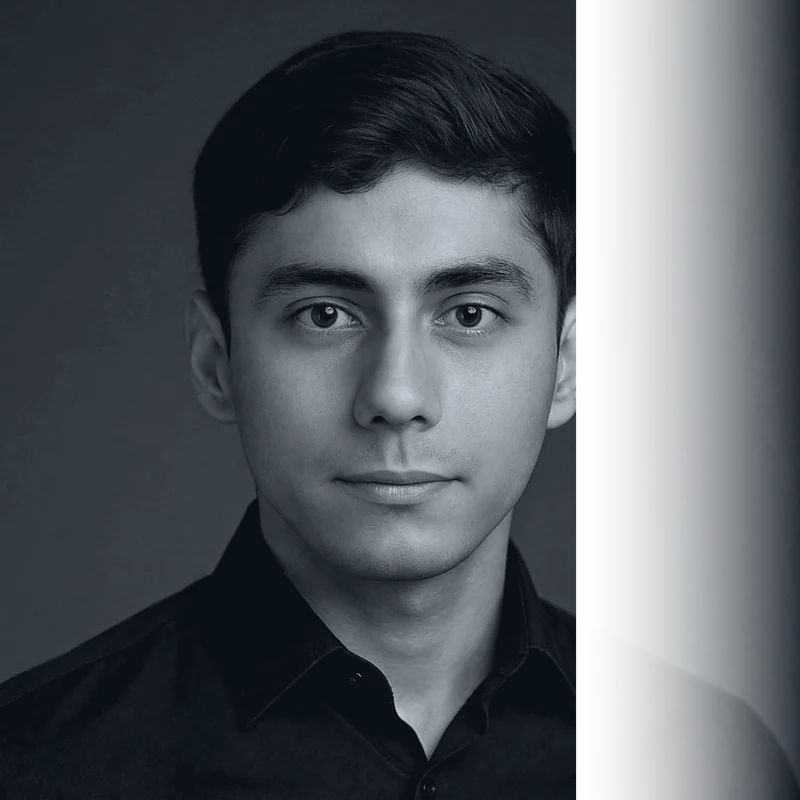
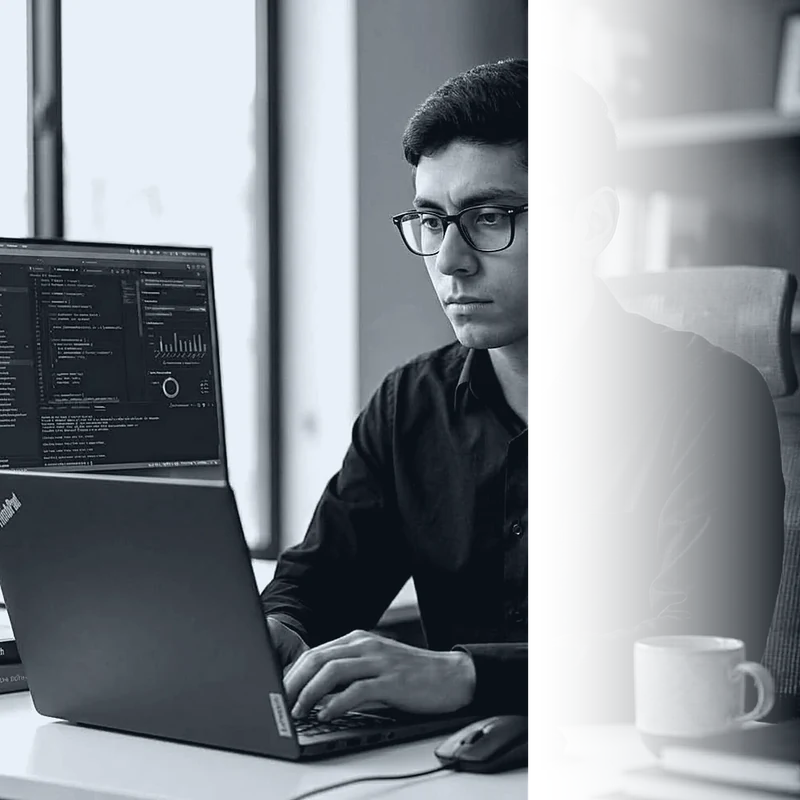
Actualiza retrato del hero con la nueva foto

diff --git a/index.html b/index.html
@@ -29,7 +29,7 @@
 <link rel="preconnect" href="https://fonts.googleapis.com">
 <link rel="preconnect" href="https://fonts.gstatic.com" crossorigin>
 <link href="https://fonts.googleapis.com/css2?family=Archivo:wght@400;500;600;700;800&family=IBM+Plex+Mono:wght@400;500;600&display=swap" rel="stylesheet">
-<link rel="stylesheet" href="assets/css/styles.css?v=20261023i">
+<link rel="stylesheet" href="assets/css/styles.css?v=20261025a">
 
 <script type="application/ld+json">
 {
@@ -118,7 +118,7 @@
         <img class="hero__banner-bg" src="assets/hero-backend.svg" alt="" aria-hidden="true">
         <div class="wrap hero__banner-inner">
           <figure class="hero__portrait">
-            <img src="assets/c4a91ba3-34c0-4780-a69c-9841844d8fd7.jpeg" alt="Retrato de Andrés Camilo Camacho Labrador" width="1024" height="1024">
+            <img src="assets/hero-photo.webp" alt="Retrato de Andrés Camilo Camacho Labrador" width="800" height="800">
           </figure>
           <div class="hero__identity">
             <p class="eyebrow">// Backend Developer</p>
@@ -463,6 +463,6 @@
   </main>
 </div>
 
-<script src="assets/js/main.js?v=20261023i" defer></script>
+<script src="assets/js/main.js?v=20261025a" defer></script>
 </body>
 </html>
